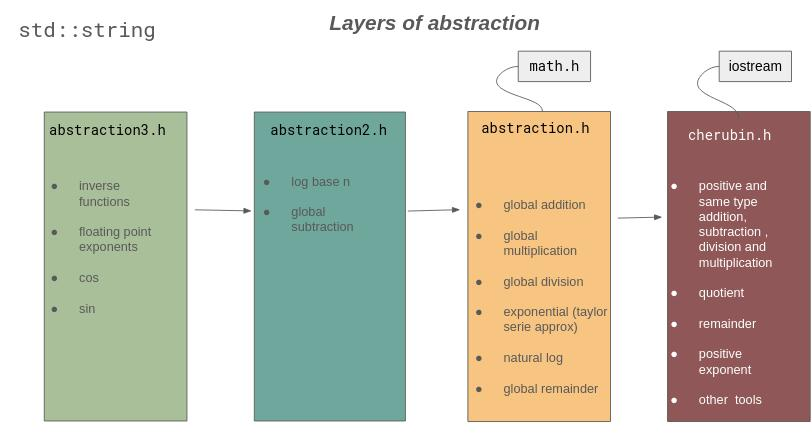
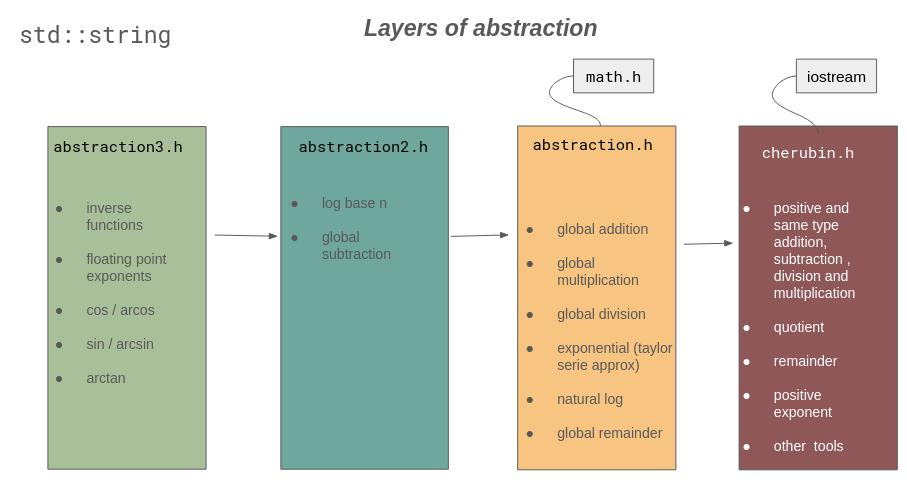
updated README

diff --git a/README.md b/README.md
@@ -138,7 +138,8 @@
 <h3>#Description</h3>
 <p>This library if for very large and precise number (integers or floating points) manipulation those who can not be stored in an other datatype than <code>std::string</code> or <code>std::deque</code>. The only limit is the system memory.</p>
 <br>
-<img style="margin-left: 20px;" height="220" width="360" src="docimage.jpg"><br><h1 style="color:#2c4786;">Addition</h1>
+<img style="margin-left: 20px;" height="220" width="360" src="docimage.jpg"><br><br>
+<img style="margin-left: 20px;" height="220" width="360" src="docimage2.jpg"><br><h1 style="color:#2c4786;">Addition</h1>
 <h2 id="addabstraction" style="test-align: left;">addabstraction</h2>
 <h3>#Usage</h3>
 <div class="Div"><code>std::string addabstraction(std::string x, std::string x2)</code></div>
